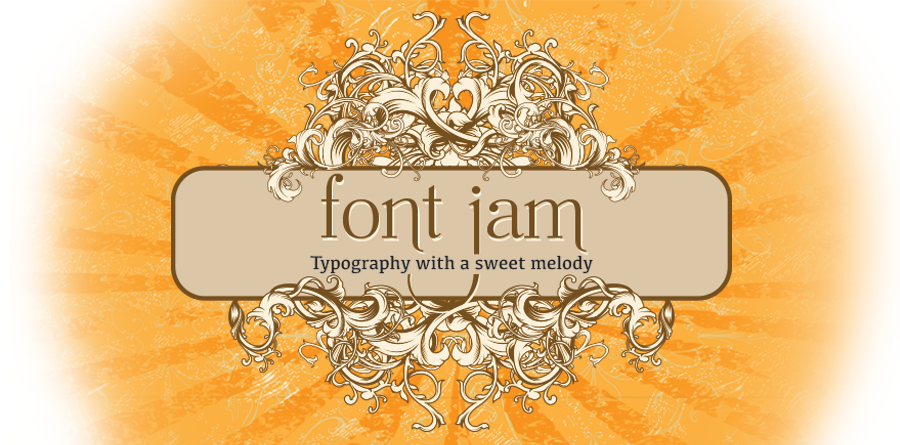
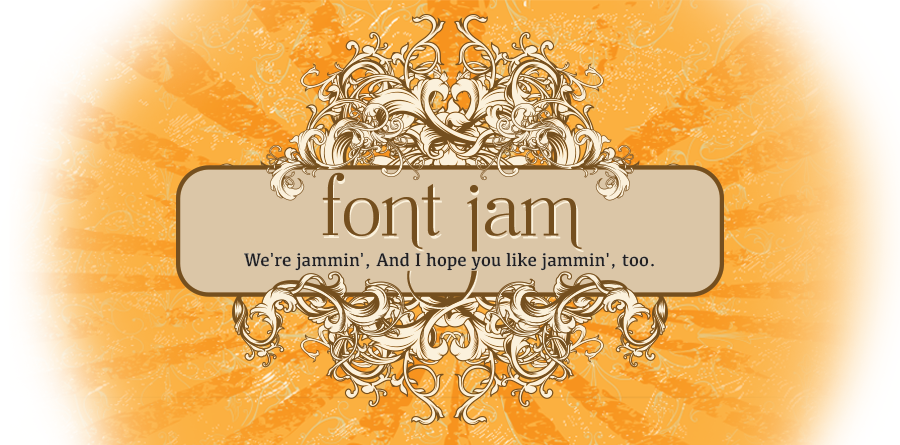
just about done

Changed region(s): [[0.1867, 0.0292, 0.84, 0.964]]

diff --git a/app/styles/app.scss b/app/styles/app.scss
@@ -22,7 +22,7 @@ $third-accent-color: $offyellow;
 /* Fonts */
 
 
-$primary-font: 'Slabo+27px';
+$primary-font: 'Forum';
 $secondary-font: 'Open+Sans+Condensed:300';
 
 h1,
@@ -149,8 +149,12 @@ ul {
   float: left;
   padding: 50px;
   text-align: center;
-  width: 51%;
+  width: 50%;
+  h3{
+  text-align: justify;
+  text-justify: inter-word;
   }
+}
 
 .intro_image {
   position: relative;
@@ -277,13 +281,18 @@ ul {
 }
 
 .chat {
-  width: 800px;
+  width: 700px;
   li {
     border: 1px $primary-color solid;
     border-radius: 5px;
     margin: 20px;
     padding: 10px;
     text-align: left;
+  }
+
+  p{
+  text-align: justify;
+  text-justify: inter-word;
   }
 }
 
@@ -299,8 +308,8 @@ footer {
 
 button {
   margin: 0 20px;
-  padding: 10px 20px;
-  border-radius: 5px;
+  padding: 5px 10px;
+  border-radius: 2px;
   background-color: $primary-color;
   color: white;
   border: 1px solid $secondary-color;
@@ -309,6 +318,7 @@ button {
   text-decoration: none !important;
   color: white;
   list-style-type: none;
+  text-transform: uppercase;
   /* font-family: $primary-font, serif; */
 }
 
